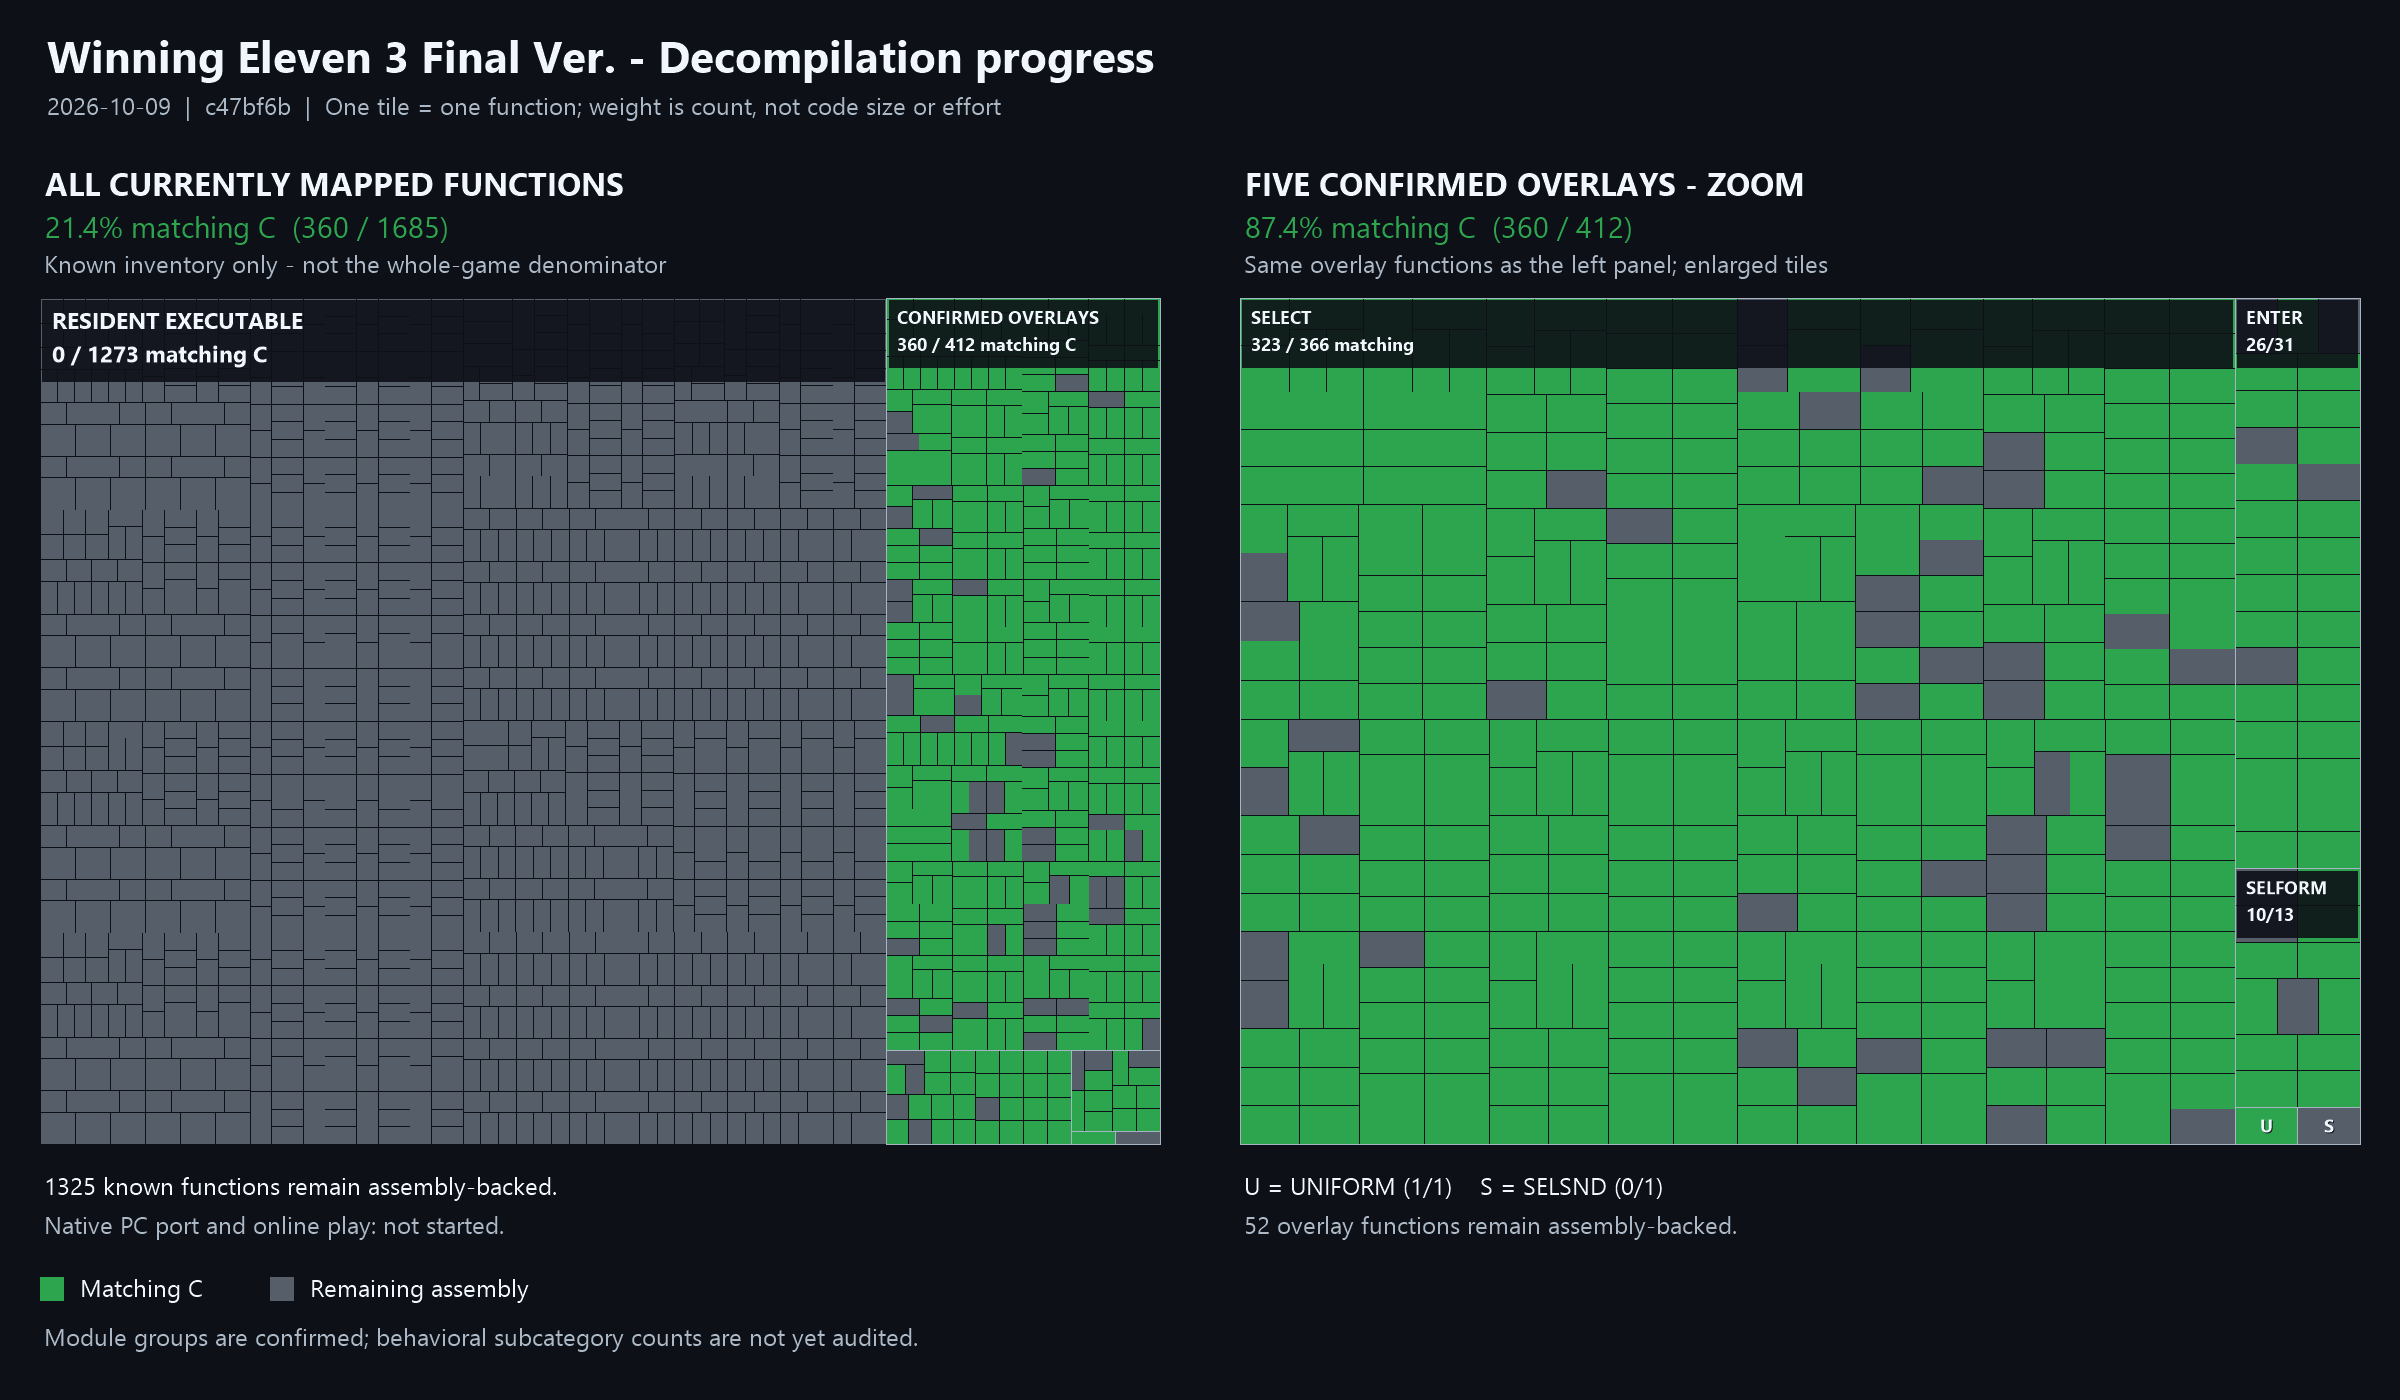
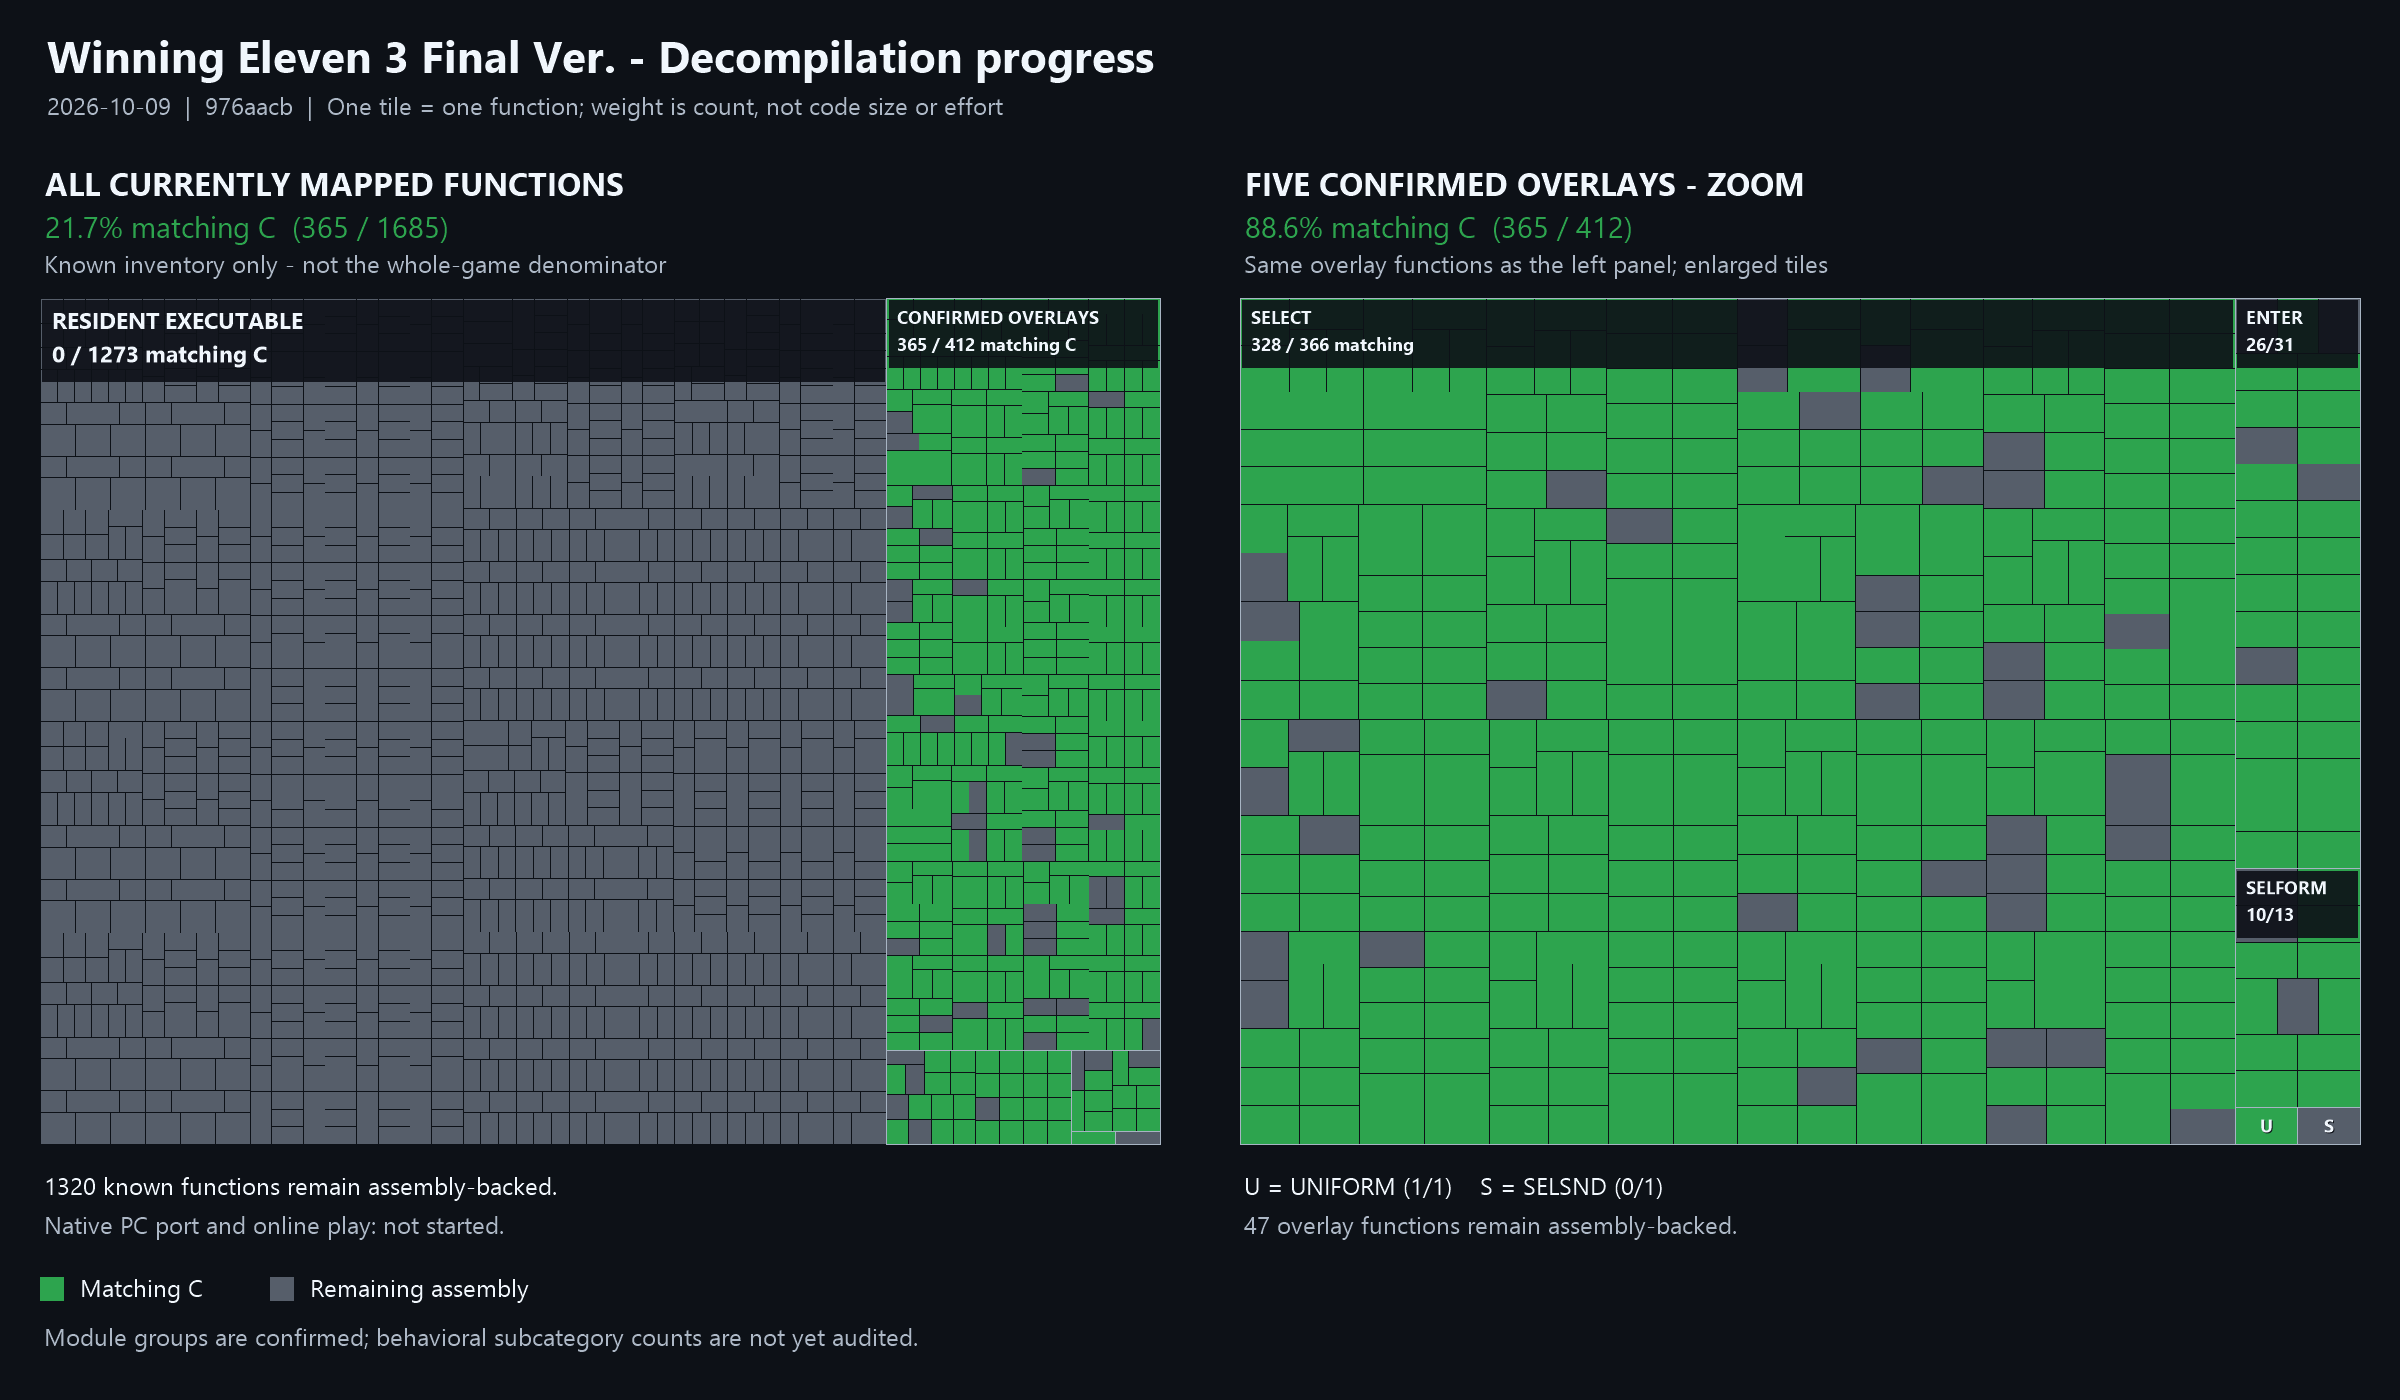
docs: refresh treemap for 365 matching functions

diff --git a/README.md b/README.md
@@ -26,7 +26,7 @@ break the reference build.
 
 ![Decompilation treemap: known function inventory and confirmed overlay detail](docs/images/decompilation-progress.png)
 
-Treemap snapshot: `c47bf6b` (360 matching C functions).
+Treemap snapshot: `976aacb` (365 matching C functions).
 
 Green tiles represent matching C; gray tiles remain assembly-backed. Each tile
 represents one function. The right panel enlarges the same confirmed overlays
